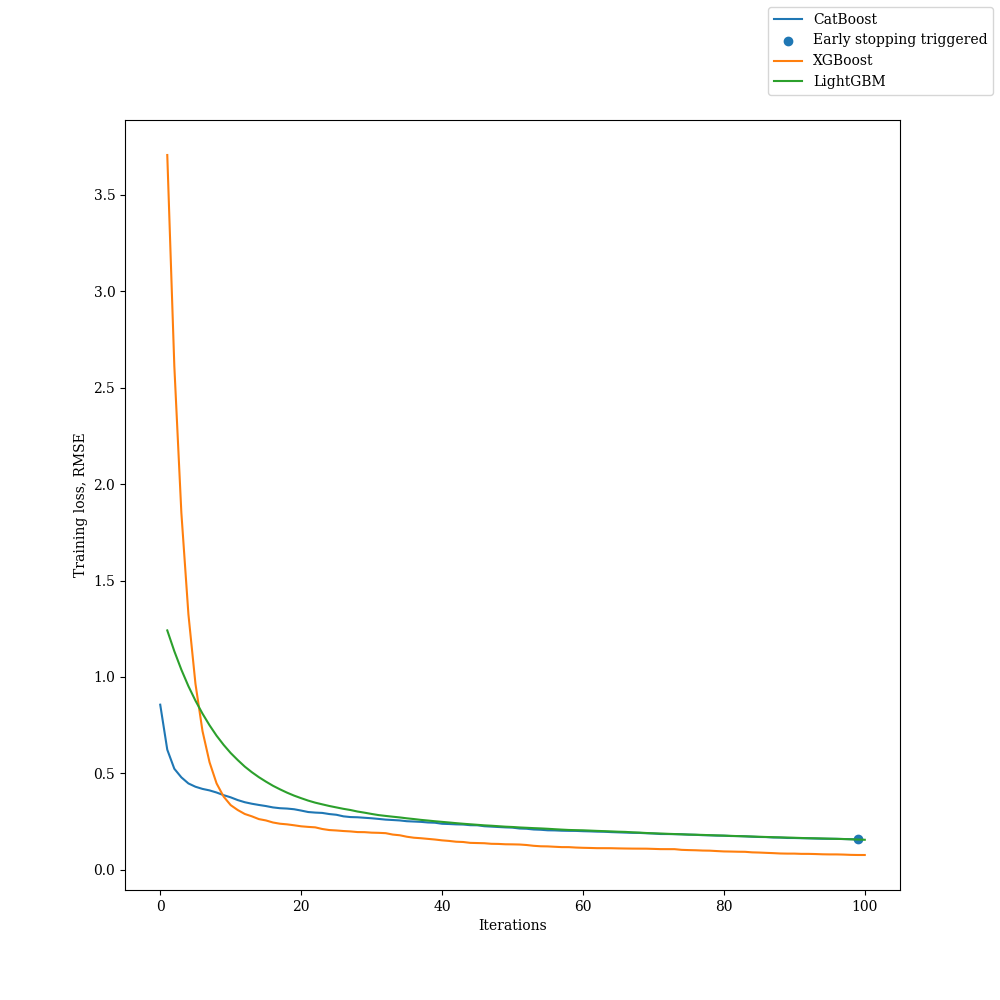
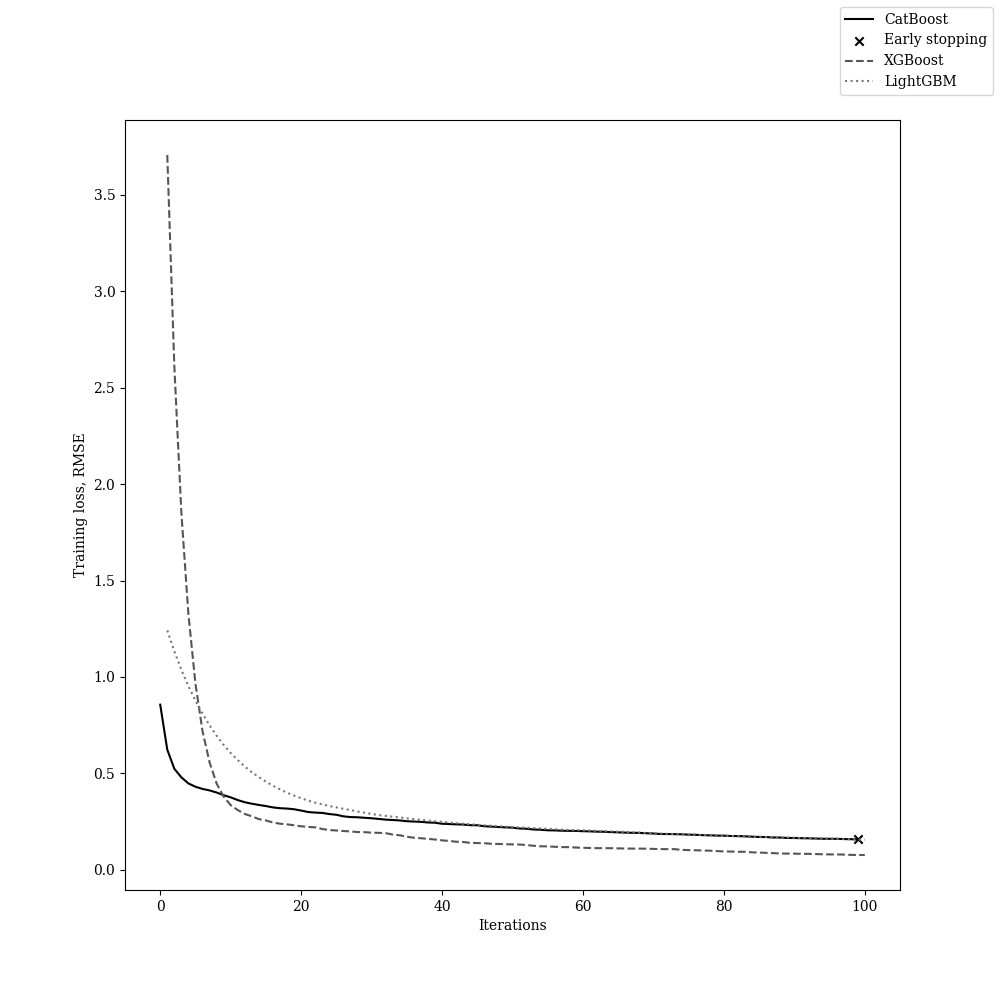
GBDTs figures color changes

diff --git a/src/compare_models_with_exp_data.py b/src/compare_models_with_exp_data.py
@@ -56,8 +56,8 @@ def plot_scatter_if_early_stopping(model: str, iterations: int, train_loss_last_
     df = pd.read_csv("model_figures/max_iterations_GBDTs.csv", sep="\t")
     max_iterations = df.loc[df["model"] == model, "max_iterations"].values[0]
     if iterations < max_iterations:
-        ax_loss_trees.scatter(iterations, train_loss_last_iter, label="Early stopping triggered")
-        ax_val_loss_trees.scatter(iterations, val_loss_last_iter, label="Early stopping triggered")
+        ax_loss_trees.scatter(iterations, train_loss_last_iter, label="Early stopping", color="k", marker="x")
+        ax_val_loss_trees.scatter(iterations, val_loss_last_iter, label="Early stopping", color="k", marker="x")
 
 
 def linestyles_and_markers_for_model_comparisons(model_str: str) -> list[str]:
@@ -195,9 +195,9 @@ def catboost_comparison(ph, store_mape: list, loc1, loc2) -> None:
 
 def plot_train_val_loss_catboost():
     df_train_loss = pd.read_csv("catboost_info/learn_error.tsv", sep="\t")
-    ax_loss_trees.plot(df_train_loss["iter"], df_train_loss["RMSE"], label="CatBoost")
+    ax_loss_trees.plot(df_train_loss["iter"], df_train_loss["RMSE"], label="CatBoost", color="k", linestyle="-")
     df_val_loss = pd.read_csv("catboost_info/test_error.tsv", sep="\t")
-    ax_val_loss_trees.plot(df_val_loss["iter"], df_val_loss["RMSE"], label="Catboost", linestyle="--")
+    ax_val_loss_trees.plot(df_val_loss["iter"], df_val_loss["RMSE"], label="Catboost", color="k", linestyle="-")
 
     plot_scatter_if_early_stopping(
         "cb", df_train_loss["iter"].iloc[-1], df_train_loss["RMSE"].iloc[-1], df_val_loss["RMSE"].iloc[-1]
@@ -228,8 +228,8 @@ def xgboost_comparison(ph, store_mape, loc1, loc2) -> None:
 def plot_train_val_loss_xgboost():
     # plot rmse for each iter
     df = pd.read_csv("models_data/xgboost_info/train_val_loss.csv", sep="\t")
-    ax_loss_trees.plot(df["iter"], df["train_loss_rmse"], label="XGBoost")
-    ax_val_loss_trees.plot(df["iter"], df["val_loss_rmse"], label="XGBoost", linestyle="--")
+    ax_loss_trees.plot(df["iter"], df["train_loss_rmse"], label="XGBoost", color="#555555", linestyle="--")
+    ax_val_loss_trees.plot(df["iter"], df["val_loss_rmse"], label="XGBoost", color="#555555", linestyle="--")
 
     plot_scatter_if_early_stopping(
         "xgb", df["iter"].iloc[-1], df["train_loss_rmse"].iloc[-1], df["val_loss_rmse"].iloc[-1]
@@ -260,8 +260,8 @@ def plot_train_val_loss_lgbm():
     # plot rmse for each iter
     # plot rmse for each iter
     df = pd.read_csv("models_data/lgbm_info/train_val_loss.csv", sep="\t")
-    ax_loss_trees.plot(df["iter"], df["train_loss_rmse"], label="LightGBM")
-    ax_val_loss_trees.plot(df["iter"], df["val_loss_rmse"], label="LightGBM", linestyle="--")
+    ax_loss_trees.plot(df["iter"], df["train_loss_rmse"], label="LightGBM", color="#777777", linestyle=":")
+    ax_val_loss_trees.plot(df["iter"], df["val_loss_rmse"], label="LightGBM", color="#777777", linestyle=":")
 
     plot_scatter_if_early_stopping(
         "lgbm", df["iter"].iloc[-1], df["train_loss_rmse"].iloc[-1], df["val_loss_rmse"].iloc[-1]
@@ -368,18 +368,11 @@ if __name__ == "__main__":
     plot_train_val_loss_lgbm()
     plot_train_val_loss_ann_best_model()
 
-    try:
-        # plot losses
-        fig_loss_trees.legend(loc="upper right")
-        fig_loss_trees.savefig("model_figures/training_loss_GBDTS.png")
-
-        fig_val_loss_trees.legend(loc="upper right")
-        fig_val_loss_trees.savefig("model_figures/validation_loss_GBDTS.png")
-
-        fig_loss_ANN.legend(loc="upper right")
-        fig_loss_ANN.savefig("model_figures/train_val_loss_ANN.png")
-    except Exception as e:
-        raise e
+    loss_figures = [fig_loss_trees, fig_val_loss_trees, fig_loss_ANN]
+    fig_names = ["training_loss_GBDTS", "validation_loss_GBDTS", "train_val_loss_ANN"]
+    for loss_fig, fig_name in zip(loss_figures, fig_names):
+        loss_fig.legend()
+        loss_fig.savefig(f"model_figures/{fig_name}.png")
 
     df = pd.read_csv("testing_pHs.csv", sep="\t")
     # compare results for all pHs
